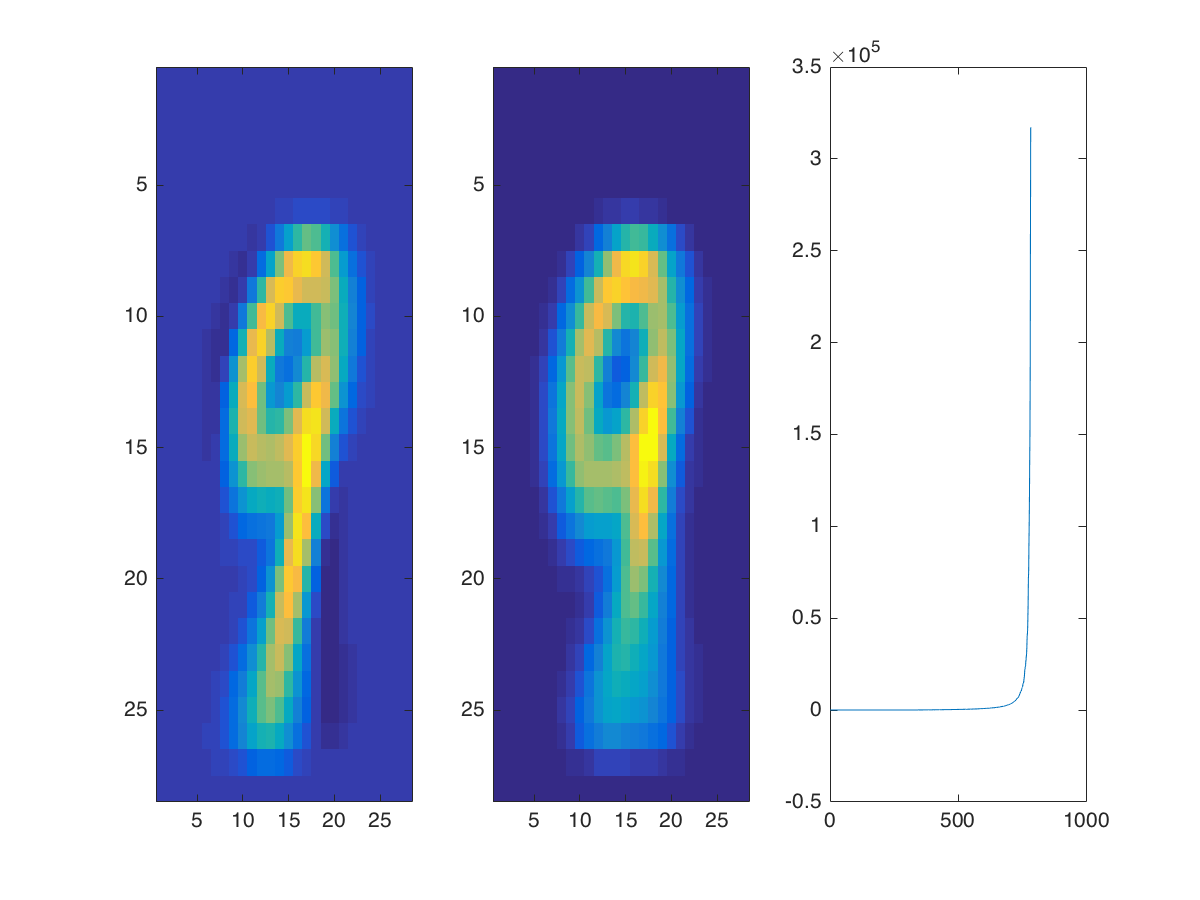
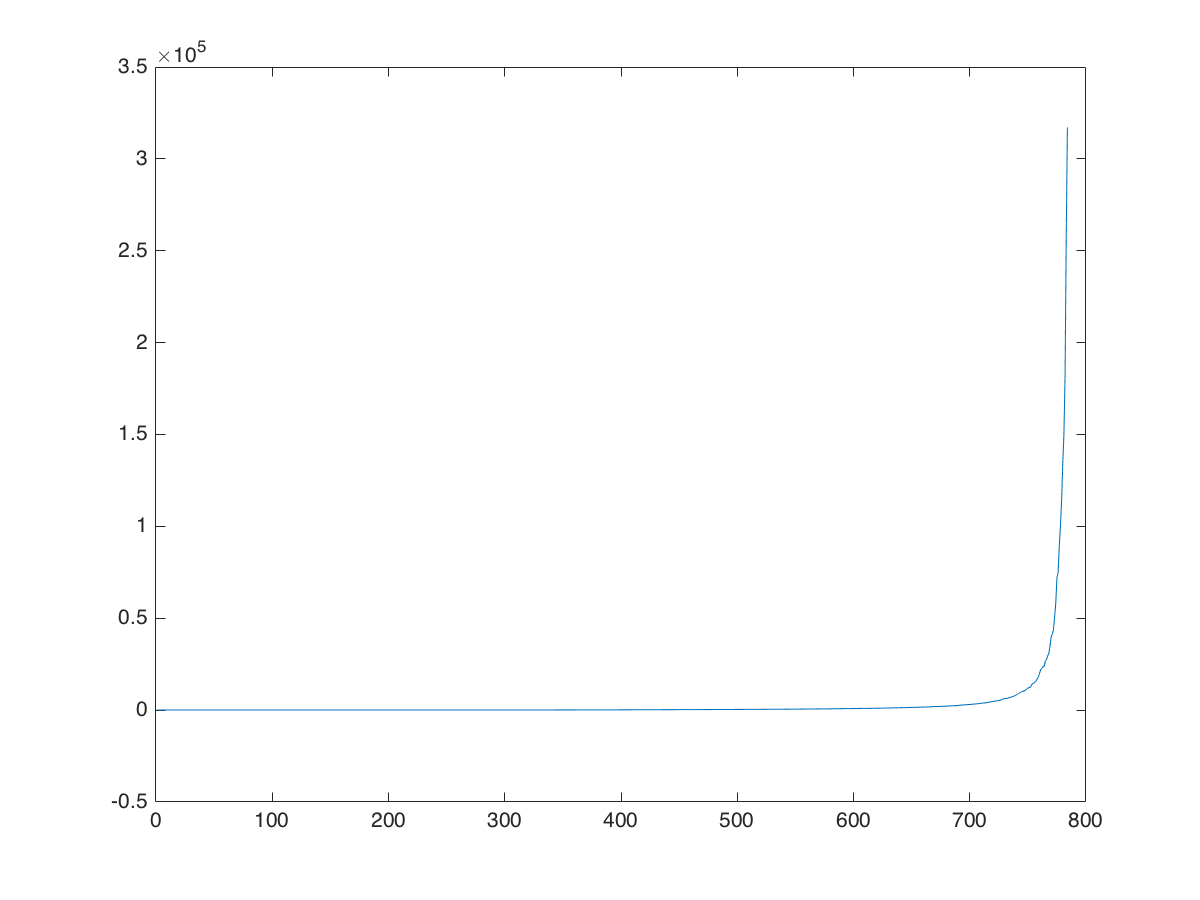
Code + Graphs + figures complete

diff --git a/HW4/test.m b/HW4/test.m
@@ -1,11 +1,14 @@
-rng(0)
+clear;
+clc;
+rng(0);
 c =  [1.6250, -1.9486 ; -1.986, 3.8750]; 
-a1 = sqrt(c(1,1));
-a2 = sqrt(c(2,2) - c(1,2)^2/c(1,1));
-a  = [a1, 0 ; c(1,2)/a1, a2];
+[v,d] = eig(c);
+d = sqrt(d);
+a = v*d;
 N = [10,10^2,10^3,10^4,10^5];
 mean_errors = zeros(100,5);
 covar_errors = zeros(100,5);
+e = zeros(2);
 for N = [10,10^2,10^3,10^4,10^5]
     for i = 1:100
         w = randn(2,N);
@@ -17,6 +20,7 @@ for N = [10,10^2,10^3,10^4,10^5]
         var_x = var(x(1,:));
         var_y = var(x(2,:));
         covariance = sum((x(1,:) - 1).*(x(2,:) - 2))/N;
+        e = eig(covariance);
         sample_covar = [var_x , covariance; covariance, var_y];
         mean_error = sqrt((sample_mean_x - 1)^2 + (sample_mean_y - 2)^2)/(sqrt(1^2 + 2^2));
         covar_error = sqrt(trace((c - sample_covar)'*(c - sample_covar)))/sqrt(trace((c)'*(c)));
@@ -24,13 +28,34 @@ for N = [10,10^2,10^3,10^4,10^5]
         covar_errors(i,log10(N)) = covar_error;
     end    
 end
-subplot(2,1,1) 
+for N = [10,10^2,10^3,10^4,10^5]
+        figure;
+        w = randn(2,N);
+        x = a*w ;
+        x(1,:) = x(1,:) + 1;
+        x(2,:) = x(2,:) + 2;
+        covariance = sum((x(1,:) - 1).*(x(2,:) - 2))/N;
+        var_x = var(x(1,:));
+        var_y = var(x(2,:));
+        sample_covar = [var_x , covariance; covariance, var_y];
+        [v,d] = eig(sample_covar);
+        scatter(x(1,:),x(2,:)); 
+        hold on;
+        plot([1,1+d(1,1)*v(1,1)],[2,2+d(1,1)*v(2,1)],'r','LineWidth',2);                                  
+        plot([1,1+d(2,2)*v(1,2)],[2,2+d(2,2)*v(2,2)],'r','LineWidth',2);
+        xlabel('X');
+        ylabel('Y');
+        title(strcat('N = ',int2str(N)));
+        print(strcat(num2str(N),'.png'),'-dpng');
+end
+
+figure;
+subplot(2,1,1);
 boxplot(mean_errors);
-title('Error in mean');
 xlabel('log(N)');
-ylabel('Relative Error');
-subplot(2,1,2)
+title('Error in Mean');
+subplot(2,1,2);
 boxplot(covar_errors);
-title('Error in Covariance');
 xlabel('log(N)');
-ylabel('Relative Error');
+title('Error in Covariance Matrix');
+print('relativeError.png','-dpng');

diff --git a/HW4/q3.m b/HW4/q3.m
@@ -26,6 +26,8 @@ image_num(1,labels(1,i)+1) = image_num(1,labels(1,i) + 1) + 1;
 numbered_images(:,:,labels(1,i)+1) = numbered_images(:,:,labels(1,i) + 1) + images(:,:,i);
 end
 
+fclose(fp_image);
+
 for i = 1:10
    numbered_images(:,:,i) =  numbered_images(:,:,i)/image_num(1,i);
 end
@@ -35,8 +37,6 @@ images_785 = [images_785; labels];
 images_785 = images_785';
 images_785 = sortrows(images_785, 785);
 images_785 = images_785';
-
-size(images_785)
 
 covar = zeros(28*28, 28*28, 10);
 
@@ -62,7 +62,7 @@ for i=1:10
     max_eigenval(1,i) = j;
     max_eigenvec(:,i) = eigenvec(:,index, i);
     k = sort(eigenval(:,i));
-    plot(k);
+    plot(1:784,k);
     print(strcat(strcat('plot',num2str(i-1)),'.png'),'-dpng');
 end
 
@@ -80,14 +80,13 @@ for i=1:10
     plot2 = meannum(:,i);
     plot3 = meannum(:,i) + sqrt(f)*max_eigenvec(:,i);
     axis equal;
-%     subplot(1,3,1);
-%     imagesc(reshape(plot1,[28 28])');
-%     subplot(1,3,2);
-%     imagesc(reshape(plot2,[28 28])');
-%     subplot(1,3,3);
-%     imagesc(reshape(plot3,[28 28])');
-%     print(strcat(strcat('figure',num2str(i - 1)),'.png'),'-dpng');
+    subplot(1,3,1);
+    imagesc(reshape(plot1,[28 28])');
+    subplot(1,3,2);
+    imagesc(reshape(plot2,[28 28])');
+    subplot(1,3,3);
+    imagesc(reshape(plot3,[28 28])');
+    print(strcat(strcat('figure',num2str(i - 1)),'.png'),'-dpng');
 end
 
-fclose(fp_image);
 

diff --git a/HW4/q1.m b/HW4/q1.m
@@ -1,15 +1,16 @@
 rng(0);
-n = 10^8;
+pis = zeros(1,8);
+
+for j=1:8
+n = 10^j;
 
 X = 2*single(rand(2,n)) - 1;
 
 in = 0;
-
-tic;
 for i = X
 if(norm(i) <= 1)
     in = in + 1;
 end
 end
-toc;
-pi = 4*in/n
+pis(1,j) = 4*in/n;
+end
